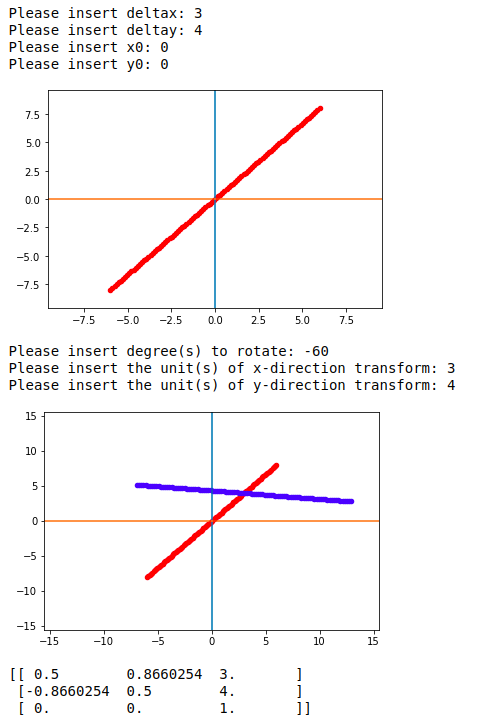
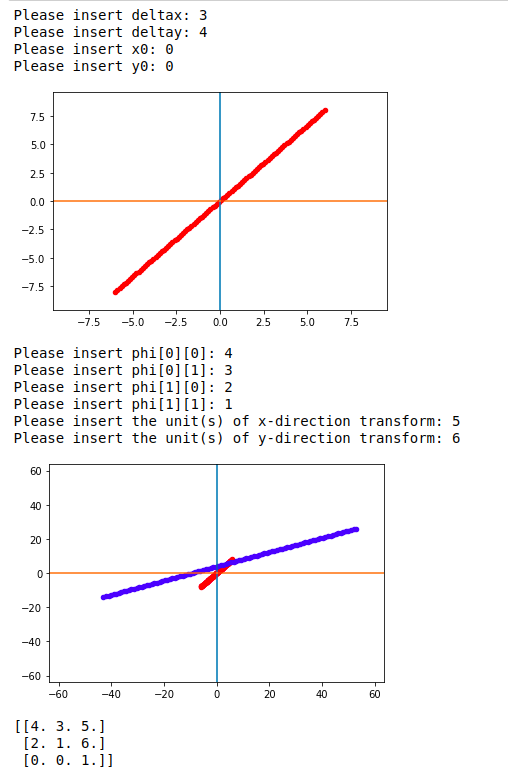
upload on May 27, 2020

diff --git a/week11/programmingHW/code.py b/week11/programmingHW/code.py
@@ -46,14 +46,18 @@ if __name__ == '__main__':
     plt.show()
     
     ############    Part 1 finished.    ############
-    
-    theta = float(input("Please insert degree(s) to rotate: "))
+
+    phi[3][3] = npy.eye(3)
+    for a in range(0, 2):
+        for b in range(0, 2):
+            phi[a][b] = float(input("Please insert phi[" + str(a) + "][" + str(b) + "]"))
+
     deltax = float(input("Please insert the unit(s) of x-direction transform: "))
     deltay = float(input("Please insert the unit(s) of y-direction transform: "))
     
     transform_matrix = npy.eye(3)       #    Identity matrix 
     transform_matrix = transform_matrix.dot(transform(deltax, deltay))       #    transform every points by x+0, y-5.
-    transform_matrix = transform_matrix.dot(rotate(theta))             #    rotate every points about (0, 0) for 45 degrees.
+    transform_matrix = transform_matrix.dot(phi)             #    rotate every points about (0, 0) for 45 degrees.
     
     for i in range(0, 100):
         plt.scatter(x[i], y[i], 20, 'r')
